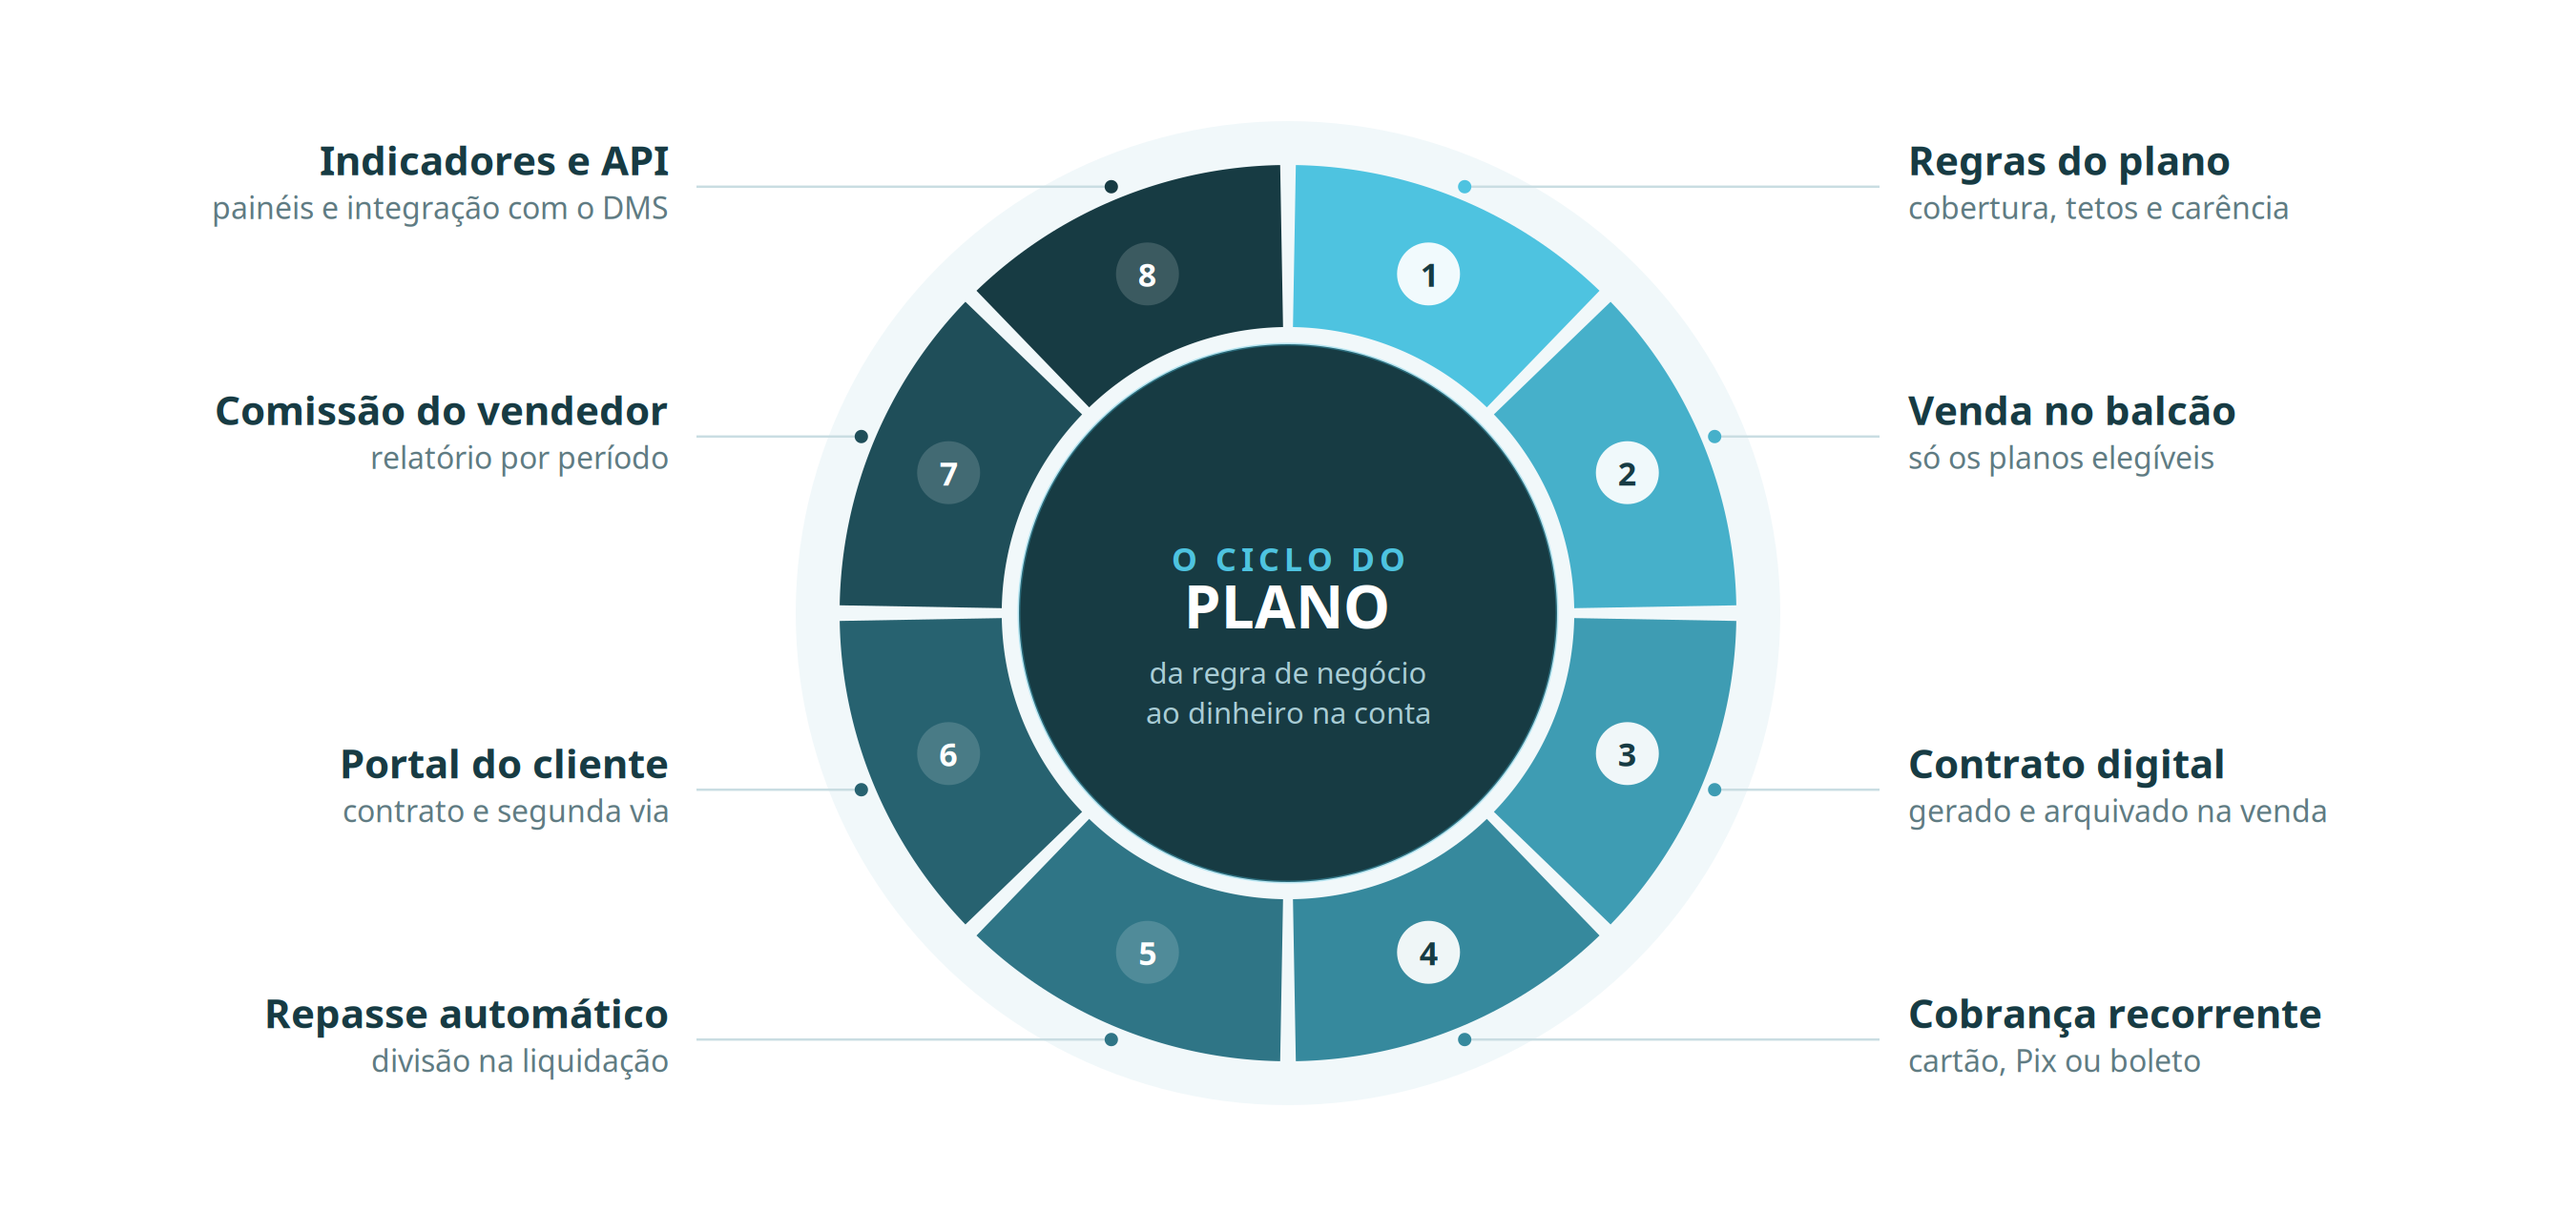
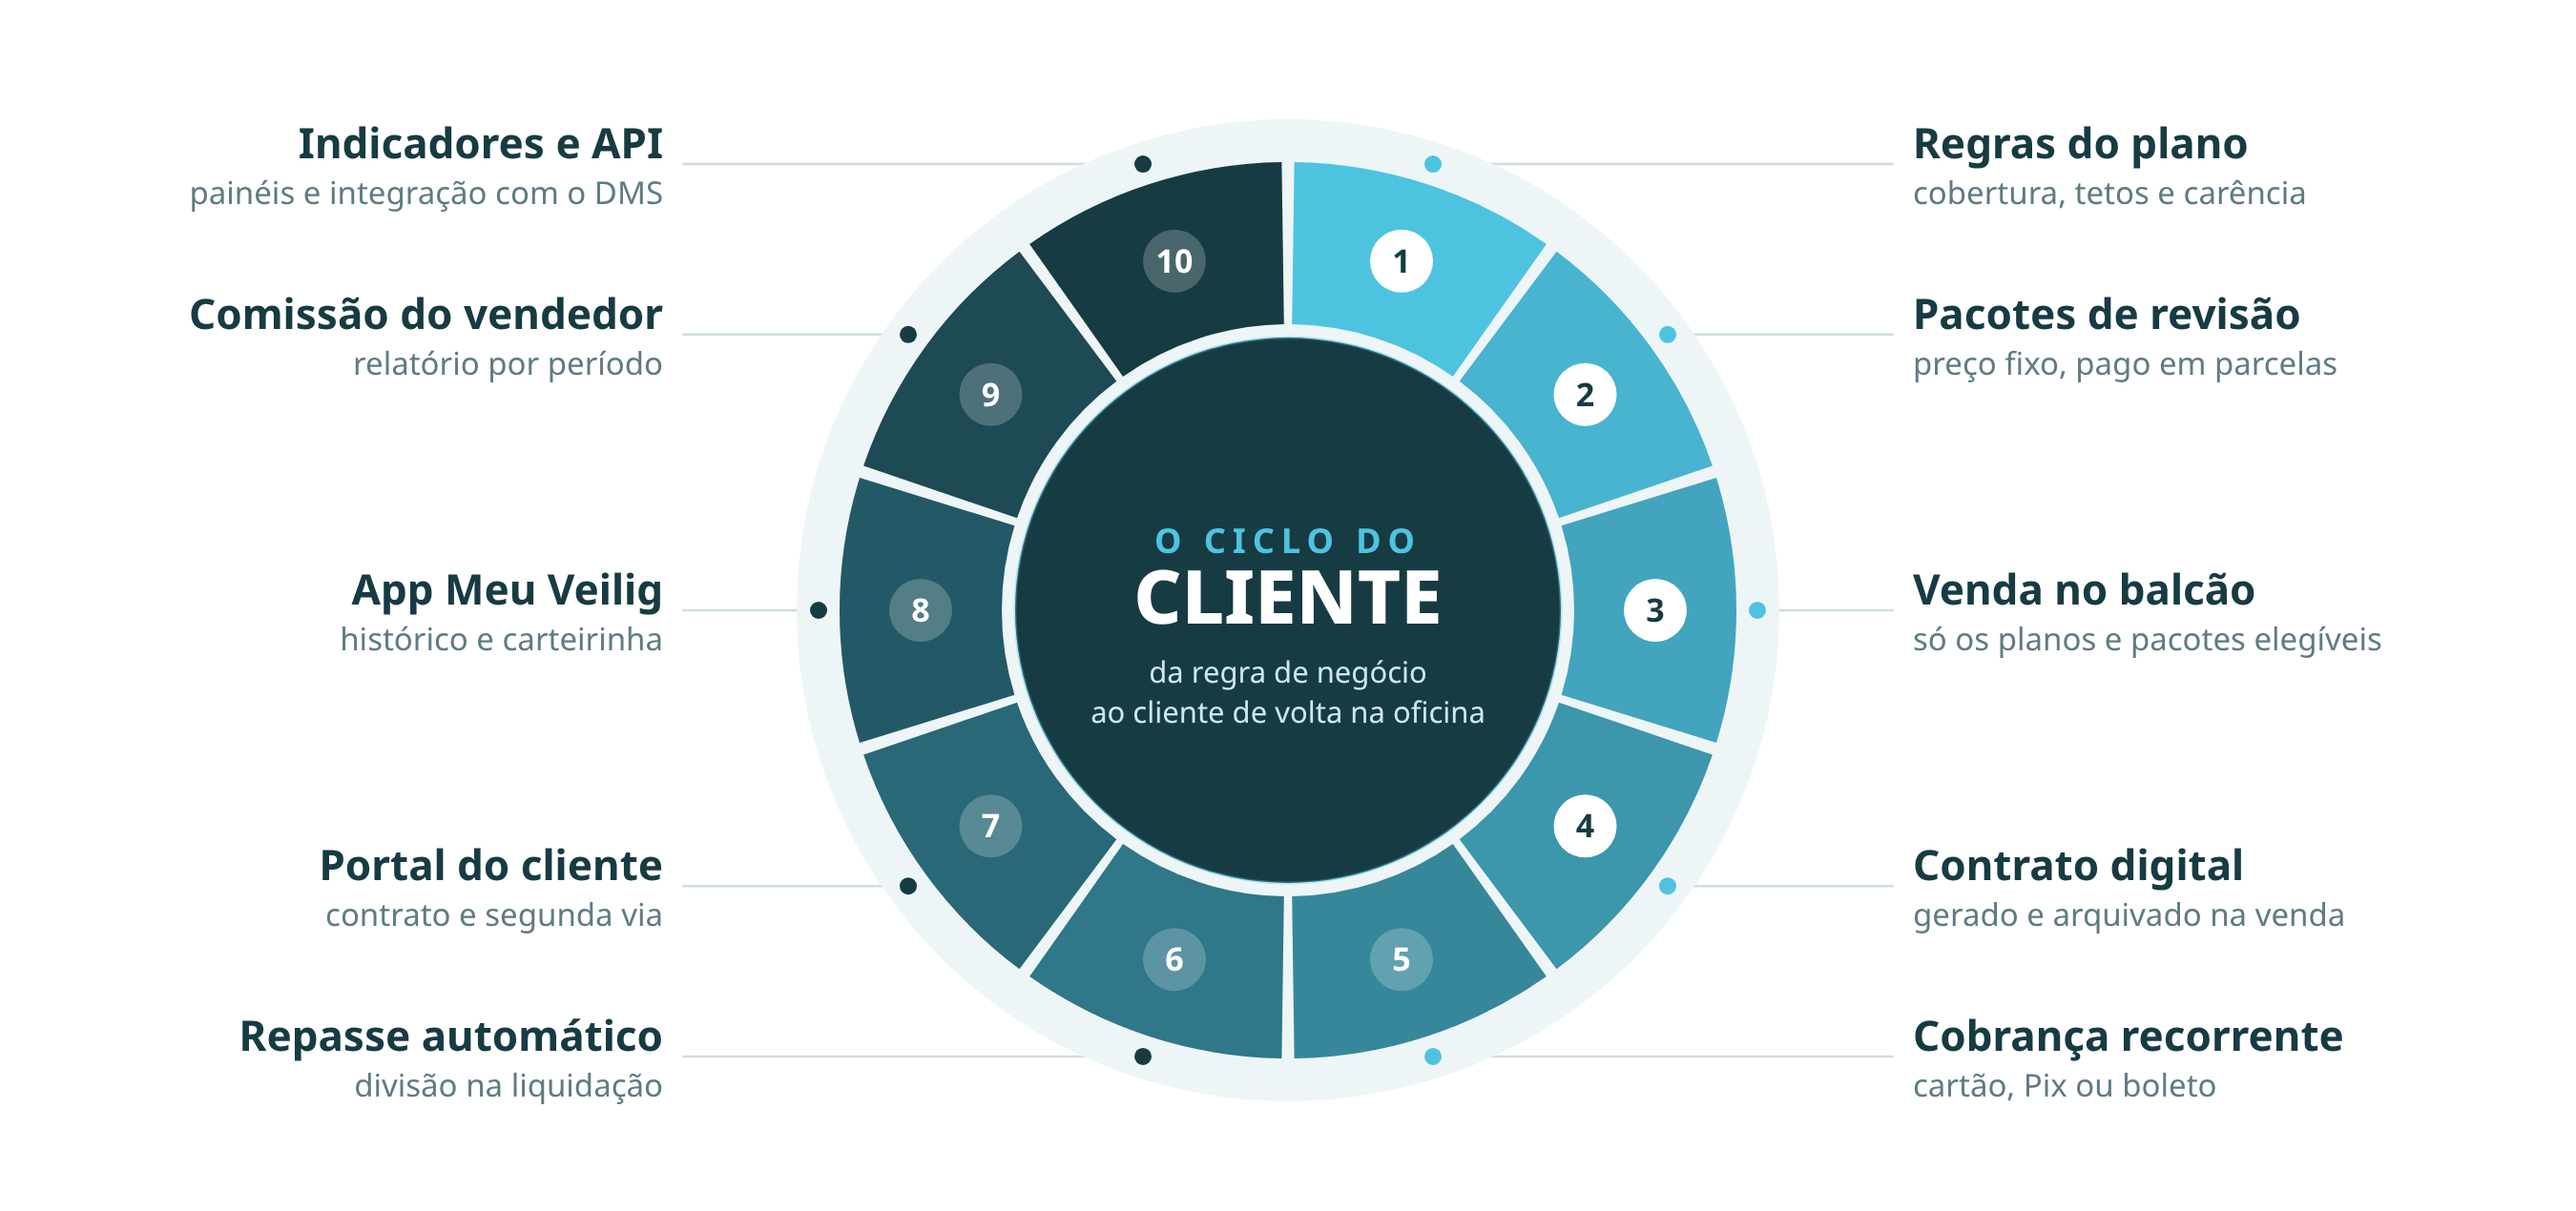
Proposta: mandala com pacotes de revisão e app Meu Veilig, sem o slide de detalhe e sem operação fiscal nas condições
Claude-Session: https://claude.ai/code/session_01Pyc7comnChXE1JZDXweR4x

diff --git a/lib/proposta/render.ts b/lib/proposta/render.ts
@@ -374,26 +374,6 @@ function slideResultados(a: AssetsProposta) {
   return o;
 }
 
-function slideDetalhe(a: AssetsProposta) {
-  let o = HEAD("O que cada ponto entrega", "Abrangência", undefined, a.logo);
-  ([["Regras do plano", "Revisões cobertas, tetos, exclusões, carência por faixa de idade e política de aceitação."],
-    ["Venda no balcão", "O vendedor descreve o veículo e o sistema mostra só os planos elegíveis, com preço e carência calculados."],
-    ["Contrato digital", "Gerado do mesmo cadastro que o vendedor vê na tela e arquivado no ato da venda."],
-    ["Cobrança recorrente", "Mensalidade em cartão, Pix ou boleto, com lembrete e conciliação automáticos."],
-    ["Repasse automático", "Divisão do valor na liquidação: a loja recebe sua parte sem acerto manual."],
-    ["Portal do cliente", "Situação da assinatura, contrato, segunda via e troca de cartão."],
-    ["Comissão do vendedor", "Relatório de vendas por vendedor e por período, com cancelamentos."],
-    ["Indicadores e integração", "Painéis por loja e por grupo, e API para consulta pelo DMS."]] as [string, string][])
-    .forEach(([t, p], i) => {
-      const x = 0.5 + (i % 2) * 4.6, y = 1.2 + Math.floor(i / 2) * 1.02;
-      o += C(x, y, 4.4, 0.9) +
-        A(x + 0.18, y + 0.17, 0.18, 0.18, "", `background:var(--accent);border-radius:${U(0.05)};`) +
-        T(t, x + 0.45, y + 0.1, 3.8, 0.3, 10.5, "var(--ink)", true, "left", "middle") +
-        T(p, x + 0.18, y + 0.42, 4.05, 0.46, 8, "var(--muted)", false, "left", "top", 1.3);
-    });
-  return o;
-}
-
 /** Só entra quando o grupo ainda vai escolher o modelo. */
 function slideComparativo(a: AssetsProposta) {
   let o = HEAD("Os dois modelos, lado a lado", "A decisão do grupo",
@@ -442,9 +422,8 @@ export function renderProposta(e: EntradaProposta, meta: MetaProposta, assets: A
   sl.push({ id: "resultados", cls: "", html: slideResultados(assets) });
   sl.push({ id: "mandala", cls: "", html:
     HEAD("Os pontos que a Veilig toca na sua operação", "Abrangência", undefined, assets.logo) +
-    A(0.5, 1.08, 9.0, 4.23, `<img src="${assets.mandala}" alt="Ciclo do plano">`,
+    A(0.5, 1.08, 9.0, 4.23, `<img src="${assets.mandala}?v=2" alt="O ciclo do cliente: regras do plano, pacotes de revisão, venda, contrato, cobrança, repasse, portal, app Meu Veilig, comissão e indicadores">`,
       "display:flex;align-items:center;justify-content:center;") });
-  sl.push({ id: "detalhe", cls: "", html: slideDetalhe(assets) });
   sl.push({ id: "escopo", cls: "", html: slideEscopo(e, p, meta, assets) });
 
   // ---- onboarding
@@ -646,15 +625,16 @@ export function renderProposta(e: EntradaProposta, meta: MetaProposta, assets: A
   ([["Vigência", "Contrato mensal, sem prazo de fidelidade. Pode ser encerrado por qualquer das partes com aviso de 90 dias."],
     ["Reajuste", "O recorrente é reajustado anualmente pelo IPCA, a contar da assinatura."],
     ["Titularidade da cobrança", "A cobrança é emitida pela plataforma e dividida na liquidação, com repasse automático à conta da concessionária."],
-    ["Operação fiscal", "A concessionária emite a nota do plano ao consumidor. A Veilig emite nota da taxa de sucesso e do recorrente."],
     ["Natureza do serviço", "A Veilig opera a plataforma e a intermediação de pagamentos. A manutenção é prestada pela concessionária."],
     ["Validade da proposta", `Esta proposta é válida até ${esc(meta.validaAte)}.`]] as [string, string][])
     .forEach(([t, d], i) => {
       const c = i % 2, lin = Math.floor(i / 2);
       const x = 0.5 + c * 4.6, y = 1.5 + lin * 1.2;
-      cd += C(x, y, 4.4, 1.08, lin === 2 ? "var(--surface-2)" : "var(--surface)") +
-            T(t, x + 0.22, y + 0.14, 3.9, 0.26, 11, "var(--ink)", true) +
-            T(d, x + 0.22, y + 0.44, 3.98, 0.6, 8.5, "var(--muted)", false, "left", "top", 1.3);
+      // A validade fica sozinha na última linha: ocupa a largura toda.
+      const ultima = lin === 2, w = ultima ? 9.0 : 4.4;
+      cd += C(x, y, w, 1.08, ultima ? "var(--surface-2)" : "var(--surface)") +
+            T(t, x + 0.22, y + 0.14, w - 0.5, 0.26, 11, "var(--ink)", true) +
+            T(d, x + 0.22, y + 0.44, w - 0.42, 0.6, 8.5, "var(--muted)", false, "left", "top", 1.3);
     });
   cd += T("Em caso de divergência entre esta proposta e o contrato, prevalece o contrato. " +
           "As condições estão sujeitas à assinatura do contrato de licença de uso da plataforma Veilig.",
